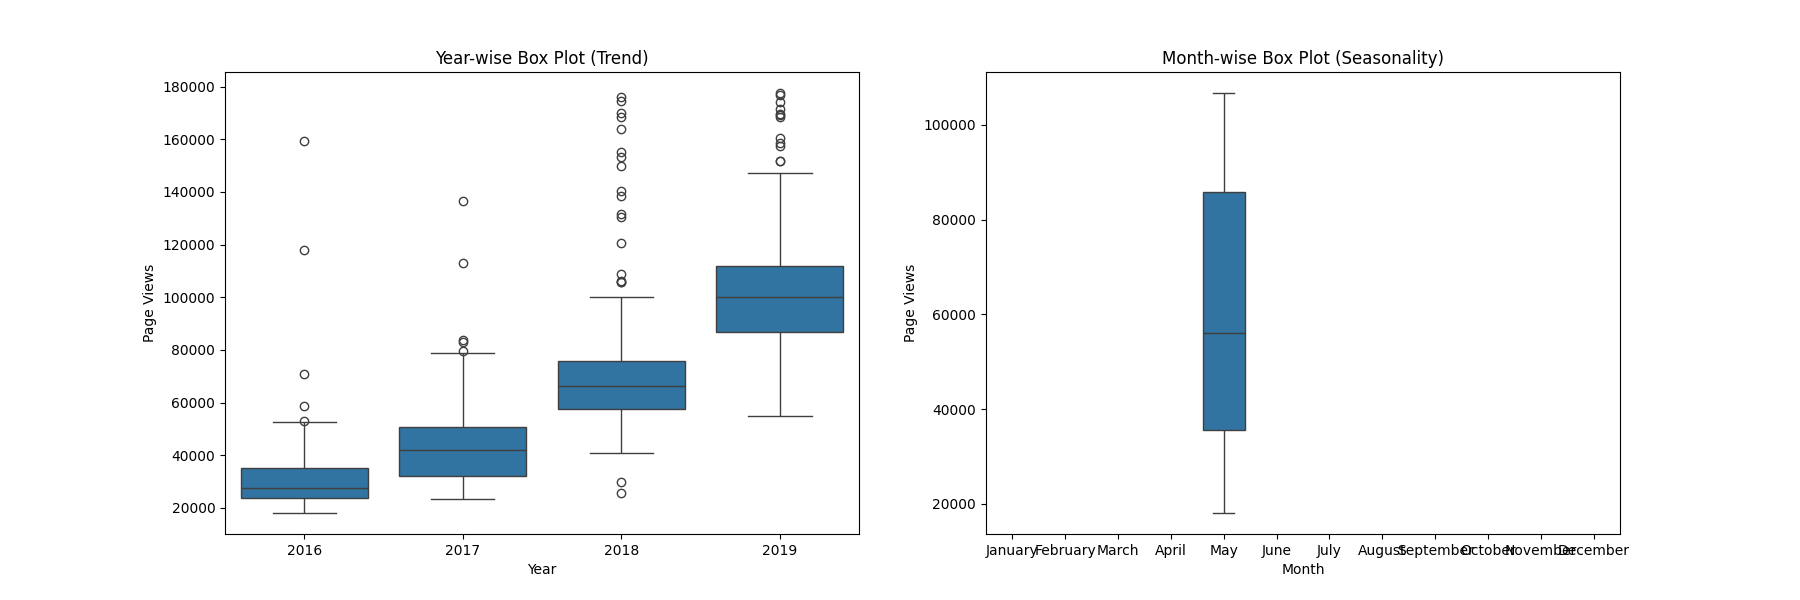
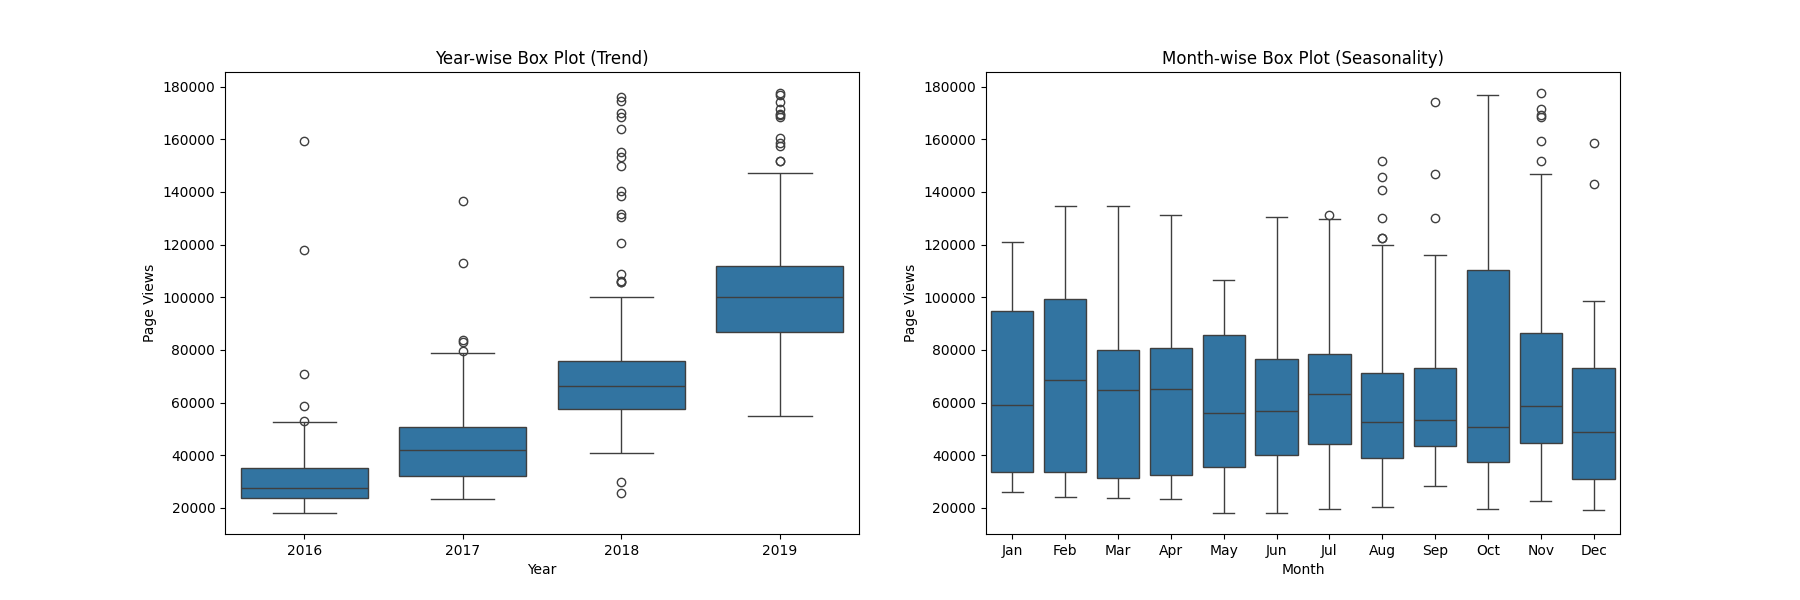
A4: fix - month order axis names

diff --git a/boilerplate-page-view-time-series-visualizer/time_series_visualizer.py b/boilerplate-page-view-time-series-visualizer/time_series_visualizer.py
@@ -65,8 +65,8 @@ def draw_box_plot():
     ax1.set_ylabel('Page Views')
 
     # 2. Month-wise Box Plot (Seasonality)
-    month_order = ['January', 'February', 'March', 'April', 'May', 'June', 
-              'July', 'August', 'September', 'October', 'November', 'December']
+    month_order = ['Jan', 'Feb', 'Mar', 'Apr', 'May', 'Jun', 
+              'Jul', 'Aug', 'Sep', 'Oct', 'Nov', 'Dec']
     sns.boxplot(x='month', y='value', data=df_box, order=month_order, ax=ax2)
     ax2.set_title('Month-wise Box Plot (Seasonality)')
     ax2.set_xlabel('Month')
